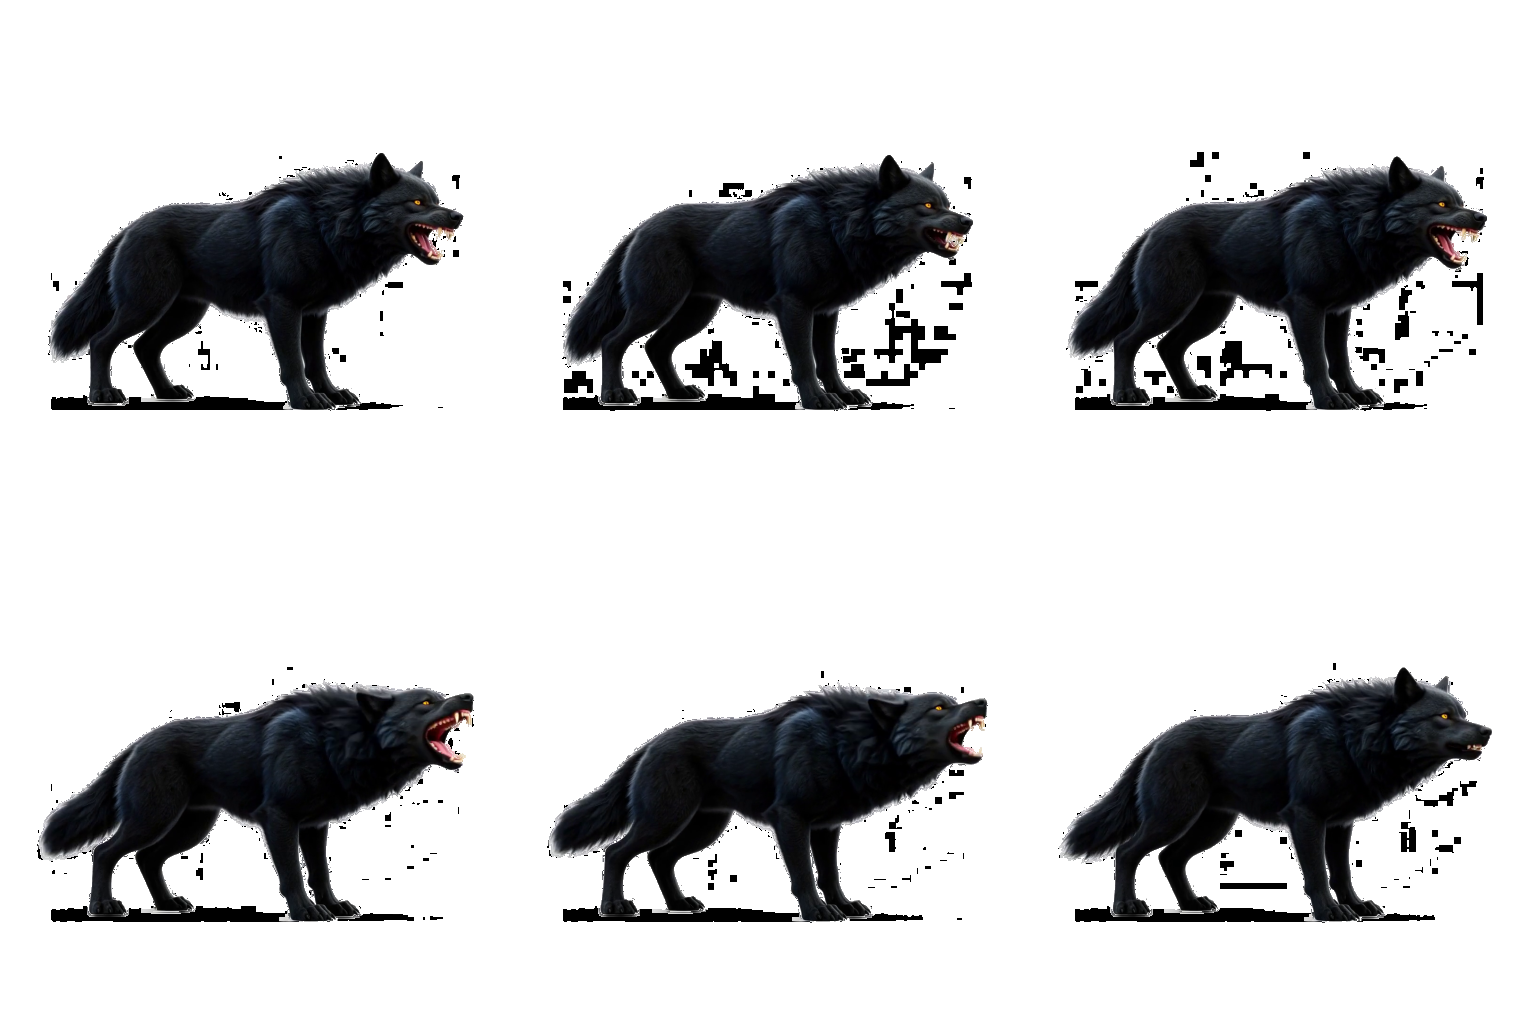
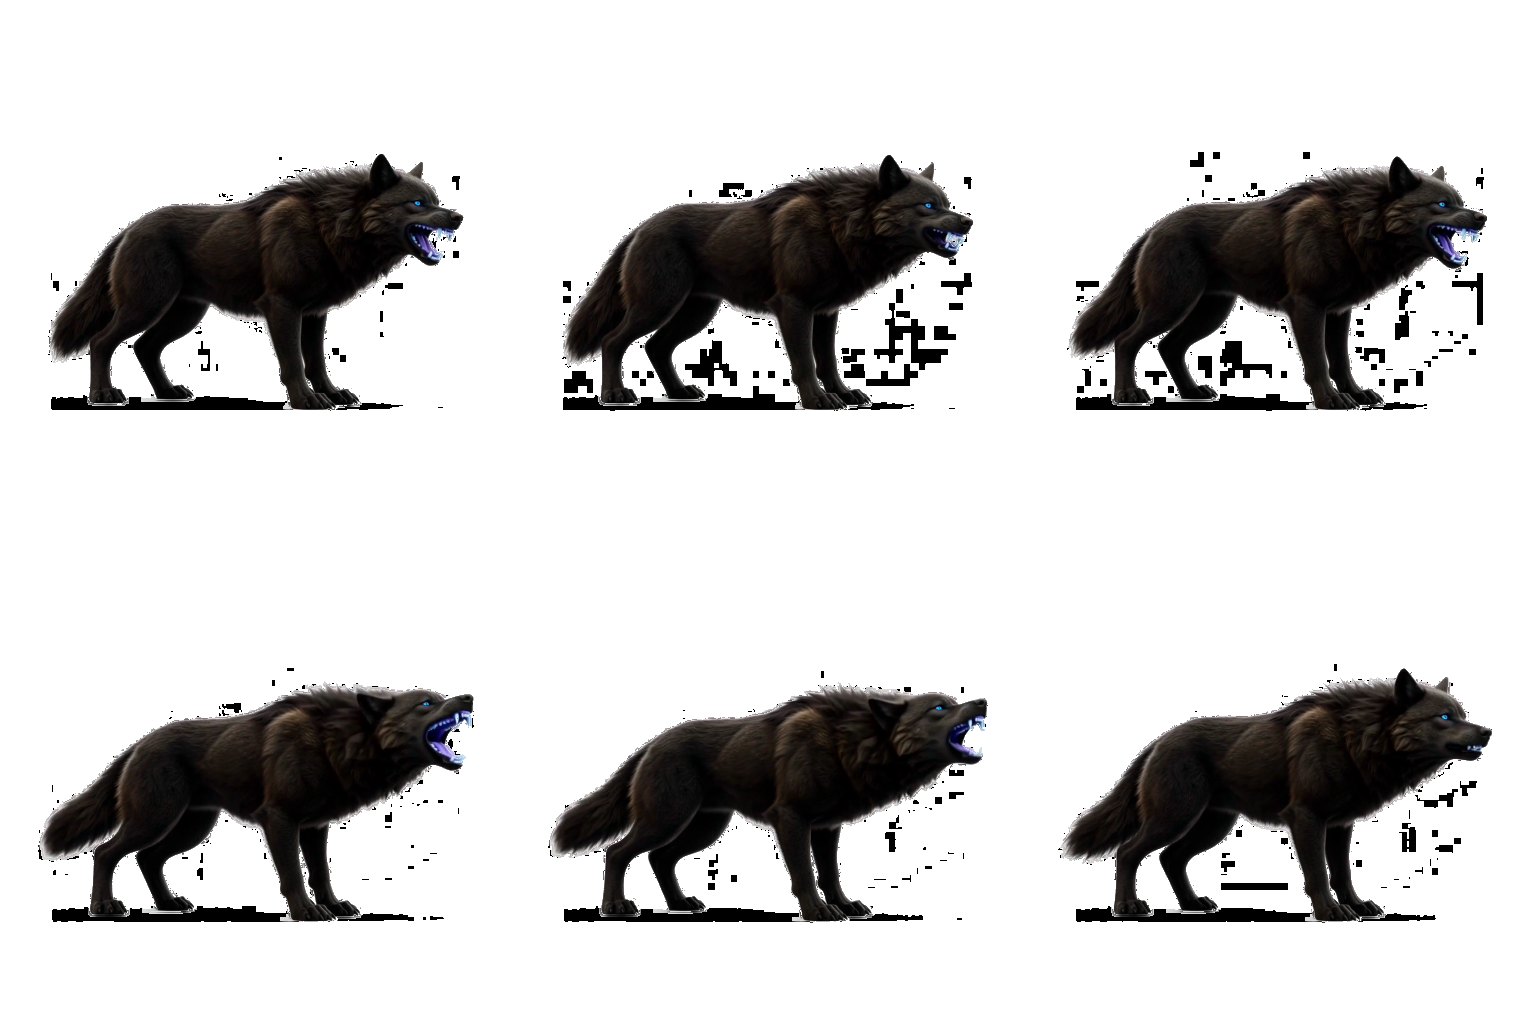
fix(enemy): 黑狼撕咬统一标准scale + 禁用红狼王缺失贴图占位
- bite 改用标准 scale(262/556)与 walk/run/pounce 同基准,高度对齐(256 vs run 260,宽度差为奔跑伸展姿态)
- 主神空间红狼王生成临时禁用:10张 red_wolf_king 贴图缺失,Phaser 显示蓝色占位块(用户反馈的'蓝色帧'来源),资产补齐后再恢复

diff --git a/src/game.js b/src/game.js
@@ -36,7 +36,7 @@ import { CombatSystem } from './systems/combat-system.js';
 import { CONFIG } from './config/config.js';
 import { TargetDummy } from './entities/target-dummy.js';
 import { Player } from './entities/player.js';
-import { BlackWolf, ZombieDogEnemy } from './entities/enemy-types.js';
+import { BlackWolf, RedWolfKing, ZombieDogEnemy } from './entities/enemy-types.js';
 import { ZombieWizard } from './entities/enemy-types/zombie-wizard.js';
 import { Mutant3 } from './entities/enemy-types/mutant-3.js';
 import { SpitterZombie } from './entities/enemy-types/spitter-zombie.js';
@@ -75,6 +75,7 @@ import { UIState } from './ui/ui-state.js';
 import { ExpeditionSystem } from './ui/expedition-system.js';
 import { FusionSystem } from './ui/fusion-system.js';
 import { DefenseSystem } from './world/defense-system.js';
+import { DefenseTrapSystem } from './world/defense-trap-system.js';
 
 export const Game = {
     VERSION: GAME_CONFIG.meta?.version || '0.198', // 游戏版本号（每次更新必须递增）
@@ -436,7 +437,9 @@ export const Game = {
      */
     spawnMainHubTestEntities() {
         this.clearMainMonstersAndSpawnDog();
-        // 当前无测试怪（墓碑黑烟/召唤验证完毕已撤下；需要时恢复 this.spawnMainTombstone()）
+        // 红狼王 H3 贴图升级验证：贴图资产尚未入库（10 张 red_wolf_king_* 缺失），
+        // 生成会显示蓝色占位块（Phaser 缺失纹理）干扰观感——先停用，资产补齐后再恢复。
+        // this.spawnMainRedWolfKing();
     },
 
     spawnMainTombstone() {
@@ -543,6 +546,24 @@ export const Game = {
             }
         });
         this.entities.set('enemy_main_foreman', foreman);
+    },
+
+    // 红狼王（精英，2026-08-06 H3 贴图升级接入）：主神空间测试生成，验证狼形态+变身
+    spawnMainRedWolfKing() {
+        const origin = (Renderer && Renderer._getSceneOrigin) ? Renderer._getSceneOrigin() : (
+            GAME_CONFIG.scenes?.mainHub?.origin || { x: 3825, y: 1886 }
+        );
+        const cfg = enemyConfigData.redWolfKing || {};
+        const wolf = new RedWolfKing(origin.x + 900, origin.y + 100, {
+            ...cfg,
+            ai: {
+                ...(cfg.ai || {}),
+                aggroRange: 9999,
+                pacingRange: 0,
+                loseTimeout: 999999
+            }
+        });
+        this.entities.set('enemy_main_red_wolf', wolf);
     },
 
     spawnMainLanternMinerZombie() {
@@ -1180,6 +1201,11 @@ if (Input.mouse.leftPressed) {
                 return;
             }
             // 世界-122 防守地图：点击防御塔打开升级/装载面板，点击基地核心查看耐久
+            // 陷阱优先于防御塔（陷阱是地面小体积，命中盒更贴近点击处）
+            if (DefenseTrapSystem && DefenseTrapSystem.tryInteract(mx, my, this.player)) {
+                Input.mouse.leftPressed = false;
+                return;
+            }
             if (DefenseSystem && DefenseSystem.active && DefenseSystem.tryInteract(mx, my, this.player)) {
                 Input.mouse.leftPressed = false;
                 return;
